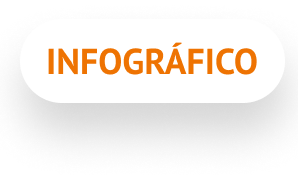
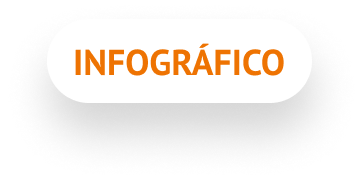
Comiterson

Changed region(s): [[0.151, 0.2198, 0.8758, 0.4396], [0.755, 0.4945, 0.8456, 0.5769], [0.151, 0.4945, 0.2114, 0.5769]]

diff --git a/Assets/Scripts/Inibuton.cs b/Assets/Scripts/Inibuton.cs
@@ -1,16 +1,28 @@
 using System.Collections;
 using System.Collections.Generic;
 using UnityEngine;
+using UnityEngine.UI;
 using UnityEngine.SceneManagement;
 
 public class Inibuton : MonoBehaviour
-{ 
-
+{
+    public Sprite buttonNormal;
+    public Sprite buttonHigh;
+    public Image button;
  public void avancaCena()
     {
         SceneManager.LoadScene(SceneManager.GetActiveScene().buildIndex + 1);
+        
+    
     }
 
-    
+    public void changeOnHover()
+    {
+        button.sprite = buttonHigh;
+    }
+    public void changeOnExit()
+    {
+        button.sprite = buttonNormal;
+    }
 
 }
